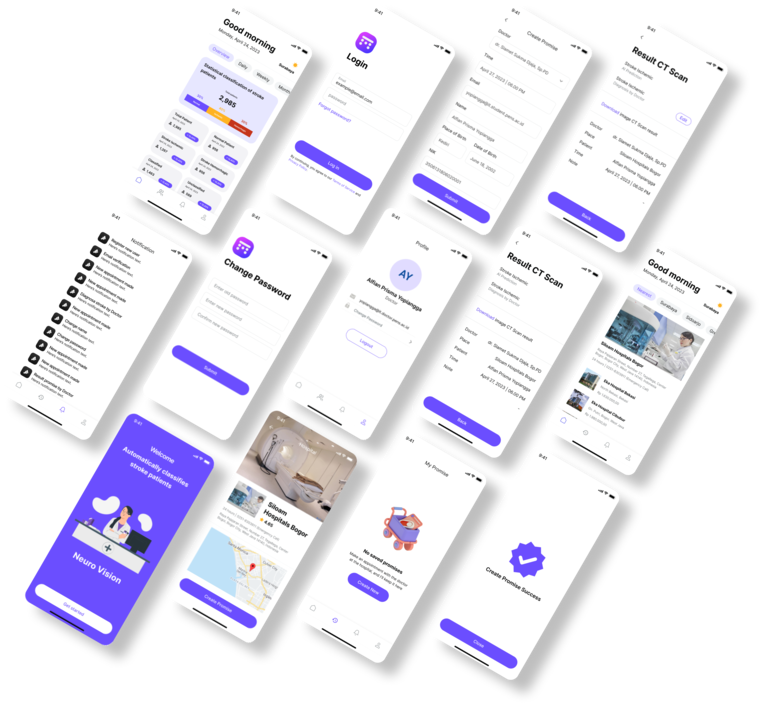
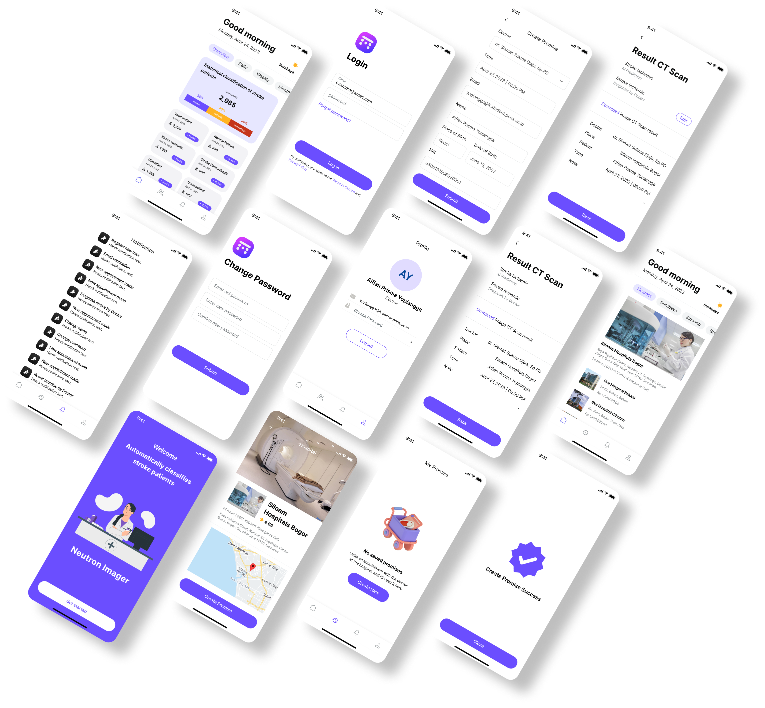
Done Landing

diff --git a/src/components/CallToActionComponent.js b/src/components/CallToActionComponent.js
@@ -13,7 +13,7 @@ export function CallToActionComponent({ pathDownload, action }) {
       <div className="w-10/12 pt-16 pb-10 grid lg:grid-cols-2 grid-cols-1">
         <div className="text">
           <h2 className="text-4xl font-medium">
-            Apa yang dapat dilakukan oleh Stroke Vision?
+            Apa yang dapat dilakukan oleh Neutron Imager?
           </h2>
           <p className="mt-7 text-sm text-slate-600">
             Aplikasi teknologi berbasis Artificial Intelligence (AI) yang dapat

diff --git a/src/components/ScreenshotComponent.js b/src/components/ScreenshotComponent.js
@@ -51,7 +51,7 @@ export function ScreenshotComponent() {
         <div className="header-title text-center">
           <h2 className="text-4xl font-medium">Layar Aplikasi</h2>
           <p className="text-sm mt-5 text-gray-600">
-            Anda dapat melihat tampilan aplikasi Stroke Vision di sini. Sangat
+            Anda dapat melihat tampilan aplikasi Neutron Imager di sini. Sangat
             mudah digunakan!
           </p>
         </div>

diff --git a/src/components/FooterComponent.js b/src/components/FooterComponent.js
@@ -3,7 +3,7 @@ export function FooterComponent() {
     <div className="w-full py-10 lg:px-20 px-8 grid lg:grid-cols-2 grid-cols-1 gap-8 border-t border-gray-200">
       <div>
         <h4 className="text-lg lg:text-left text-center">
-          © 2023 Stroke Vision. All Rights Reserved.
+          © 2023 Neutron Imager. All Rights Reserved.
         </h4>
       </div>
       <div className="flex lg:justify-end justify-center gap-4">

diff --git a/src/components/ContactComponent.js b/src/components/ContactComponent.js
@@ -81,7 +81,7 @@ export function ContactComponent() {
                 <FiMapPin size={36} />
               </div>
               <div>
-                <h2 className="text-xl font-medium mb-3">Stroke Vision</h2>
+                <h2 className="text-xl font-medium mb-3">Neutron Imager</h2>
                 <a
                   className="text-lg"
                   href="https://goo.gl/maps/rKmsvQXbLxtU36BRA"

diff --git a/src/components/NavbarComponent.js b/src/components/NavbarComponent.js
@@ -34,7 +34,7 @@ export function NavbarComponentDefault() {
       <div className="w-11/12 h-full flex justify-between items-center text-white">
         <div className="logo">
           <h1 className="text-xl font-bold">
-            Stroke Vision | Aplikasi Seluler
+            Neutron Imager | Aplikasi Seluler
           </h1>
         </div>
         <div className="menu lg:block hidden">

diff --git a/src/pages/LandingPage.js b/src/pages/LandingPage.js
@@ -16,7 +16,7 @@ import { useEffect, useState } from "react";
 
 export function LandingPage() {
   const [pathDownload, setPathDownload] = useState(
-    "https://drive.google.com/drive/folders/1IvYMA5an4Ok01vbjvVS8mBrMPDcqOXzg?usp=sharing"
+    "https://drive.google.com/drive/folders/1Br1or410DSi7ZM3PYq7U5ySf-L427_De?usp=sharing"
   );
 
   return (
